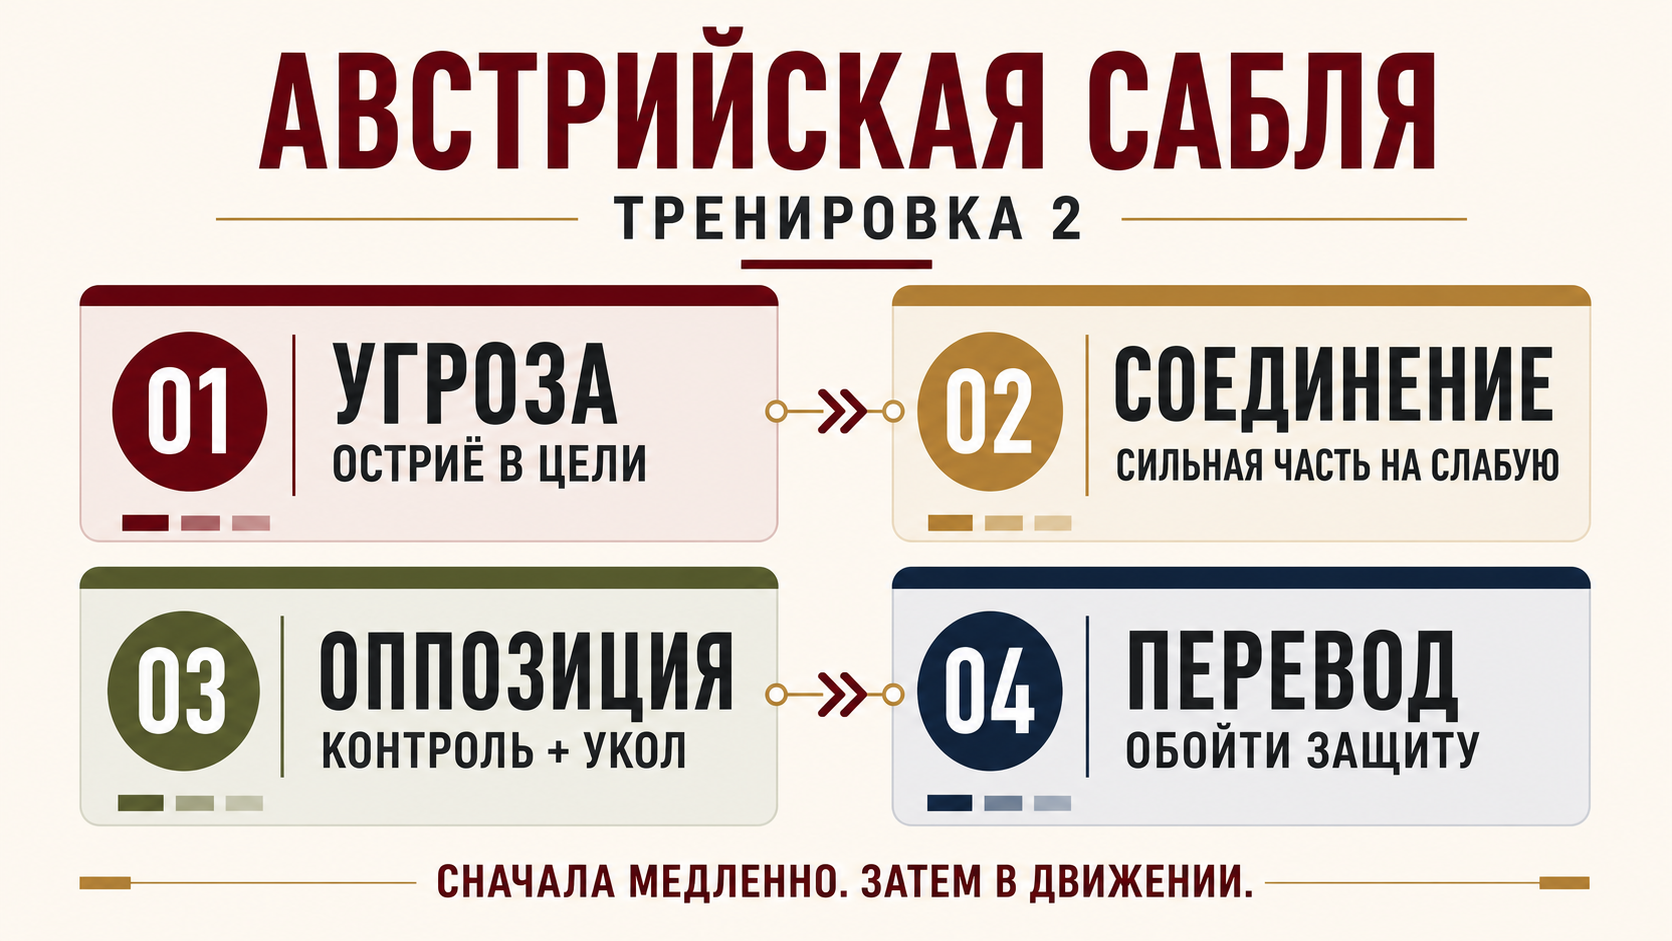
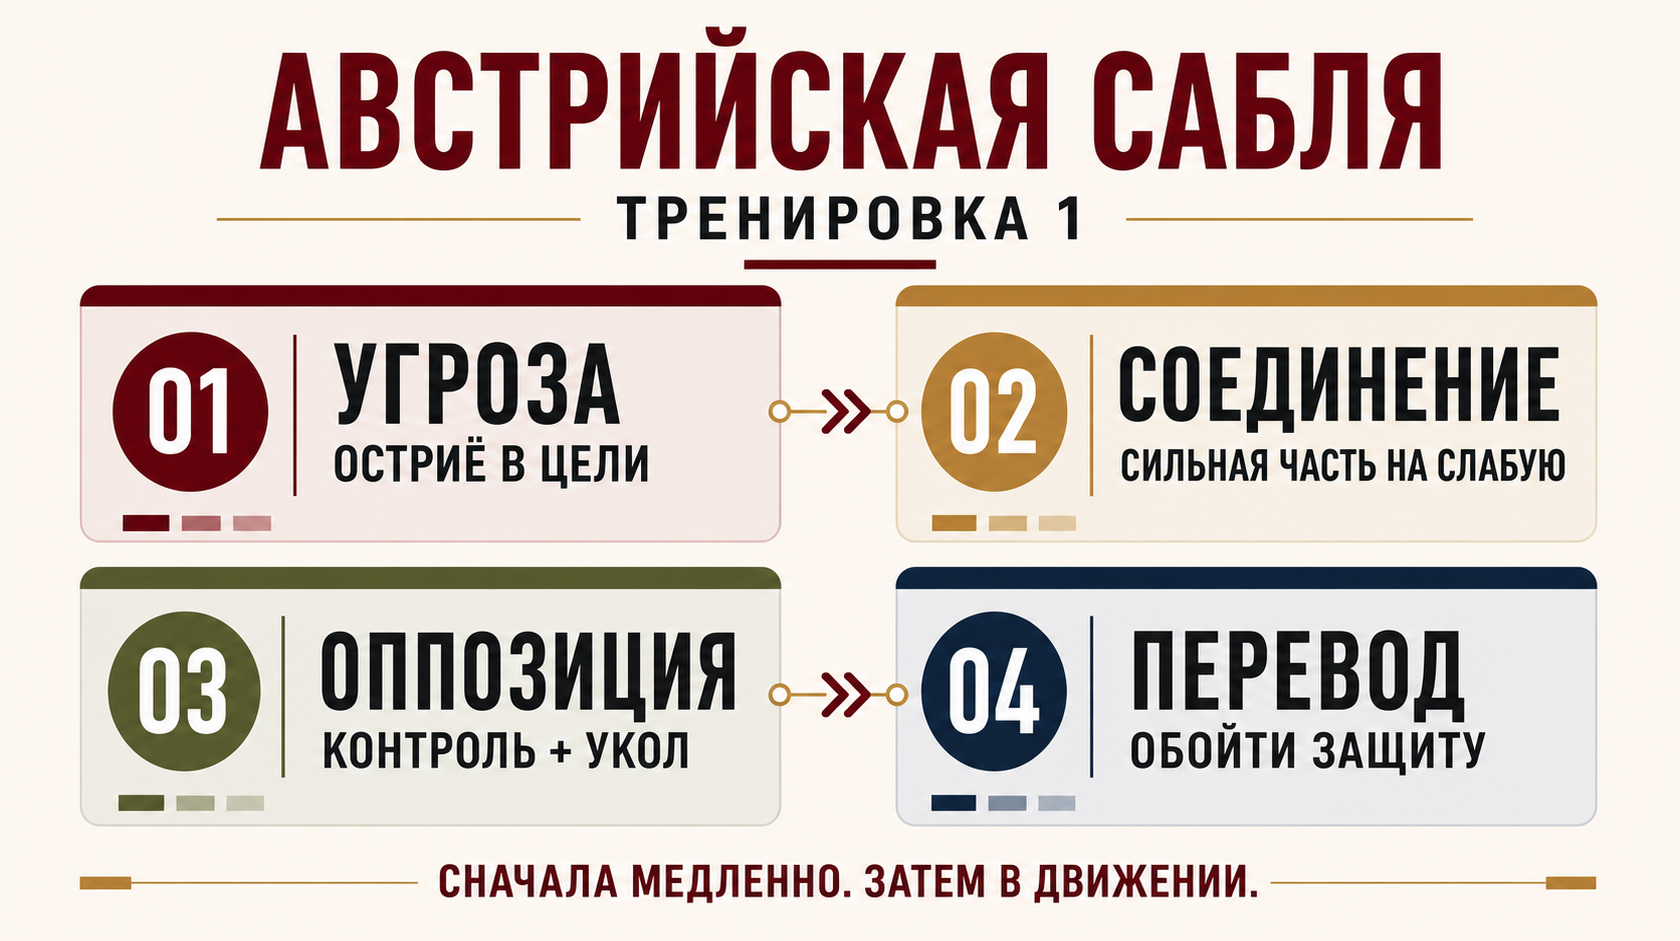
fix(noname): renumber sabre trainings

diff --git a/src/lib/data/collections.ts b/src/lib/data/collections.ts
@@ -367,7 +367,7 @@ export const collections: Collection[] = [
 			{
 				title: 'Сабля Саши',
 				subtitle:
-					'Практический цикл по австрийской сабле: тренировки 2, 3, 4, 5 и 6.',
+					'Практический цикл по австрийской сабле: пять записанных тренировок, с 1 по 5.',
 				items: [
 					'avstriyskaya-sablya-2',
 					'avstriyskaya-sablya-trenirovka-3',
